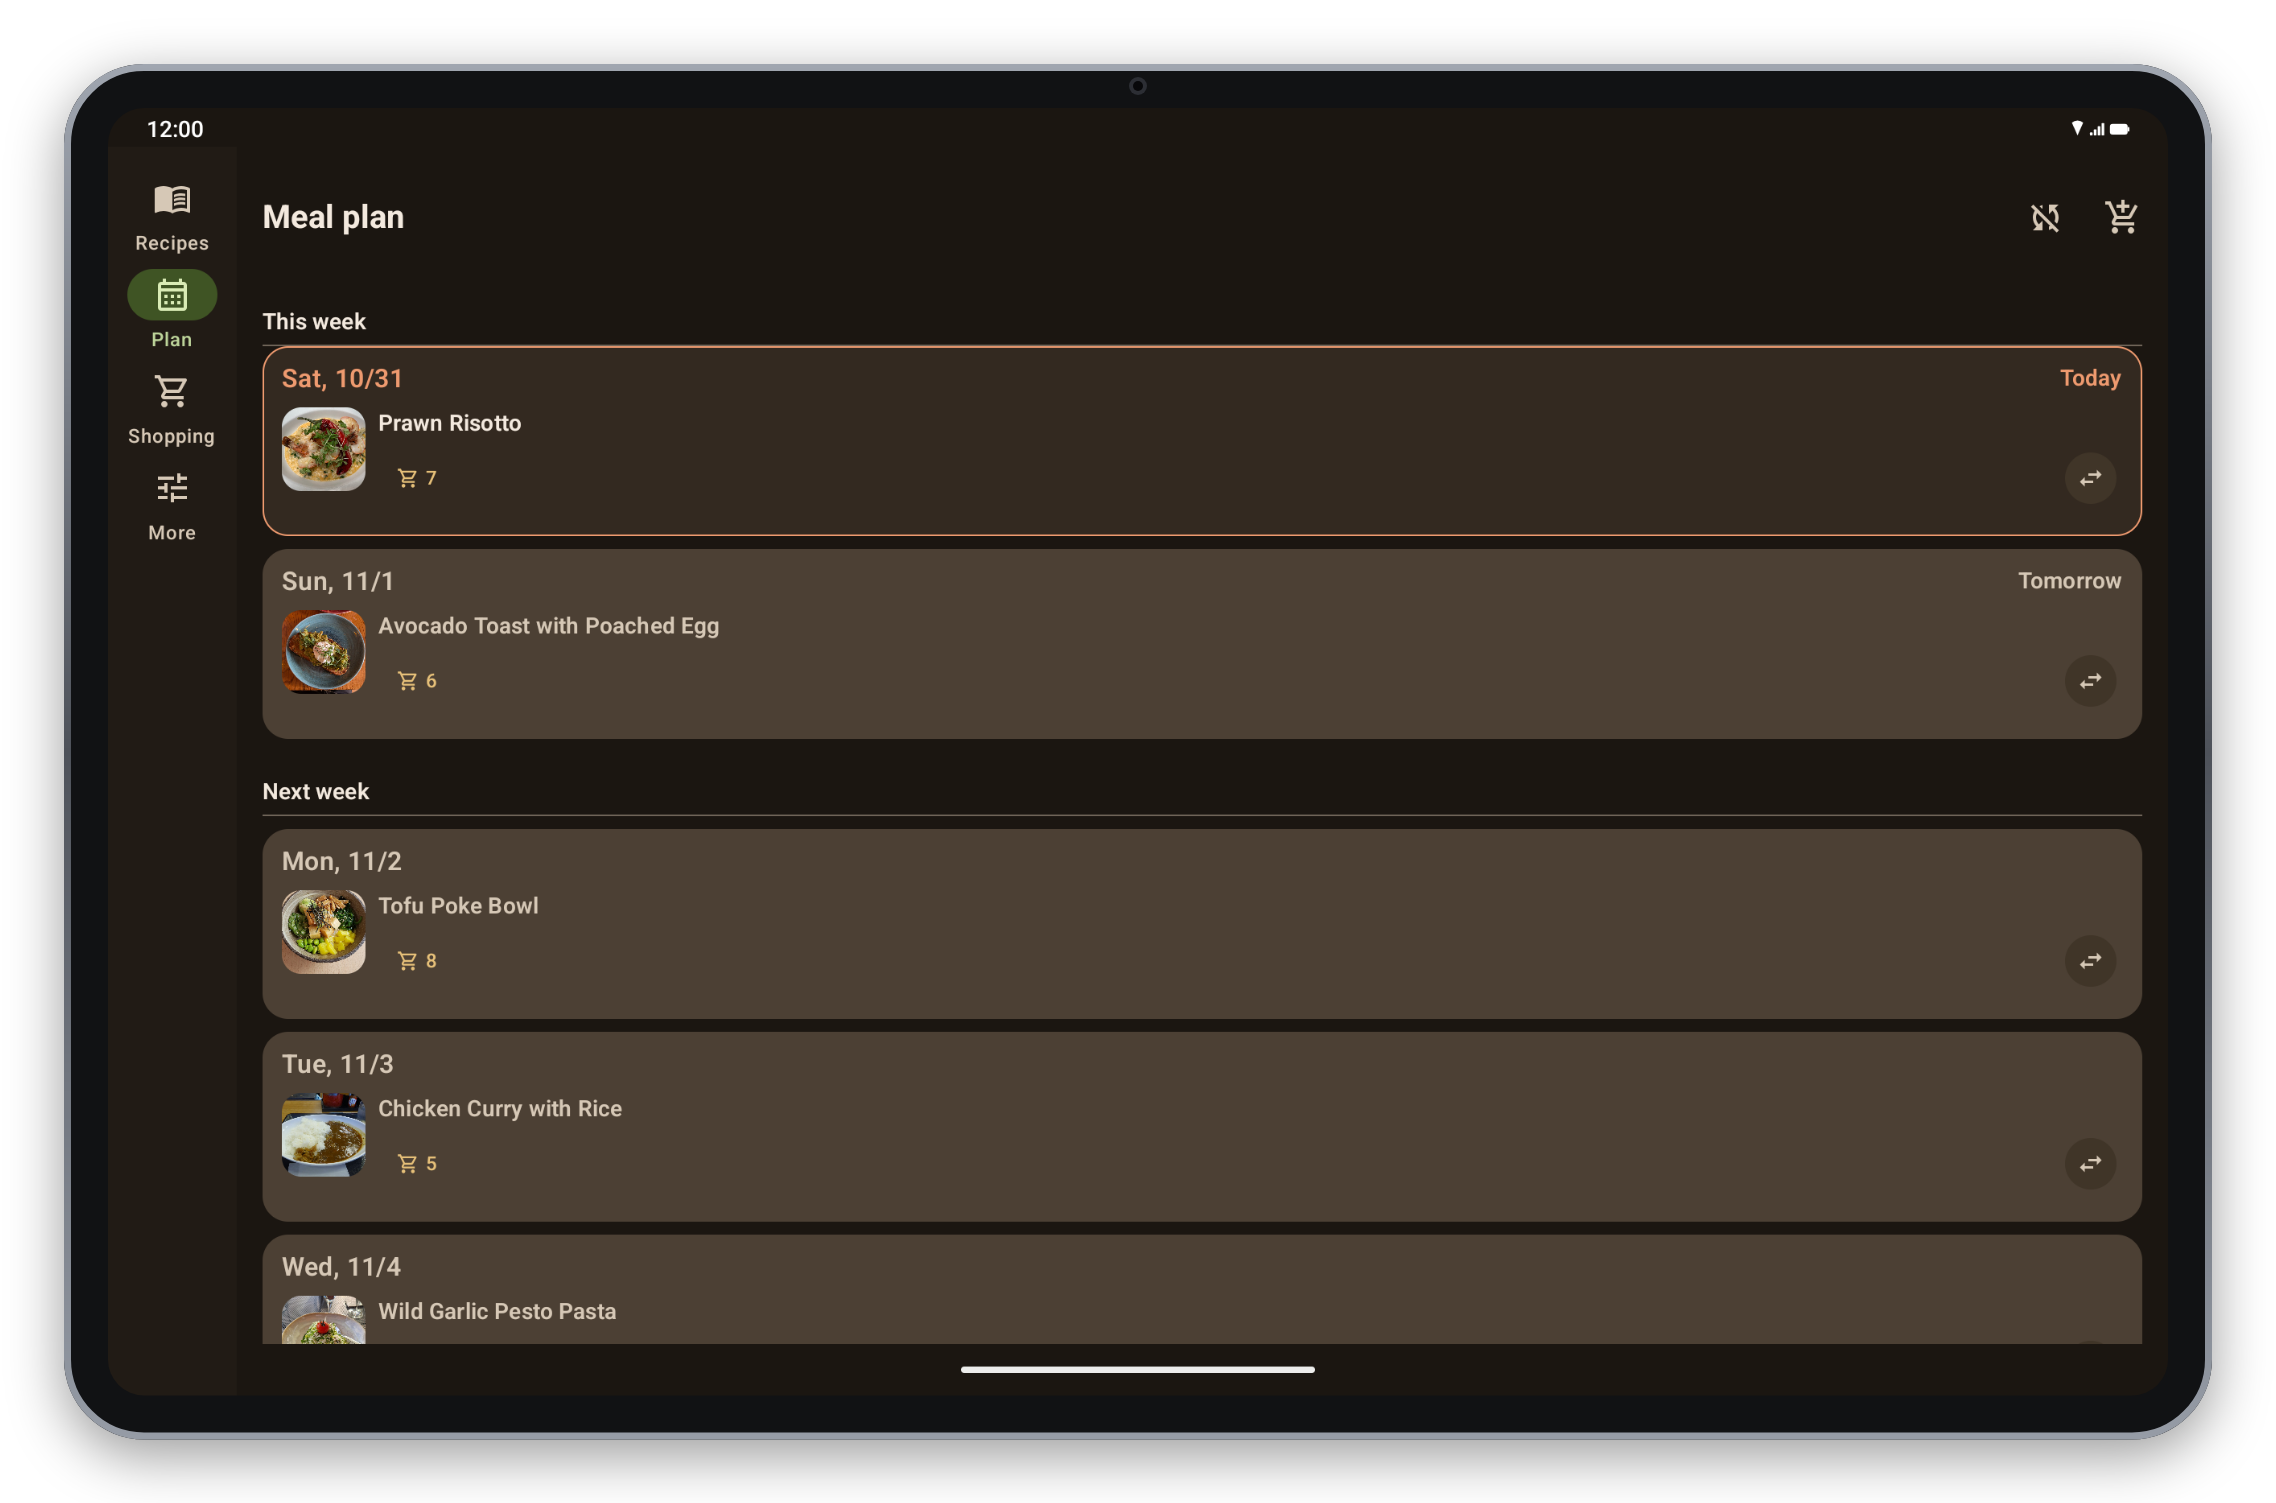
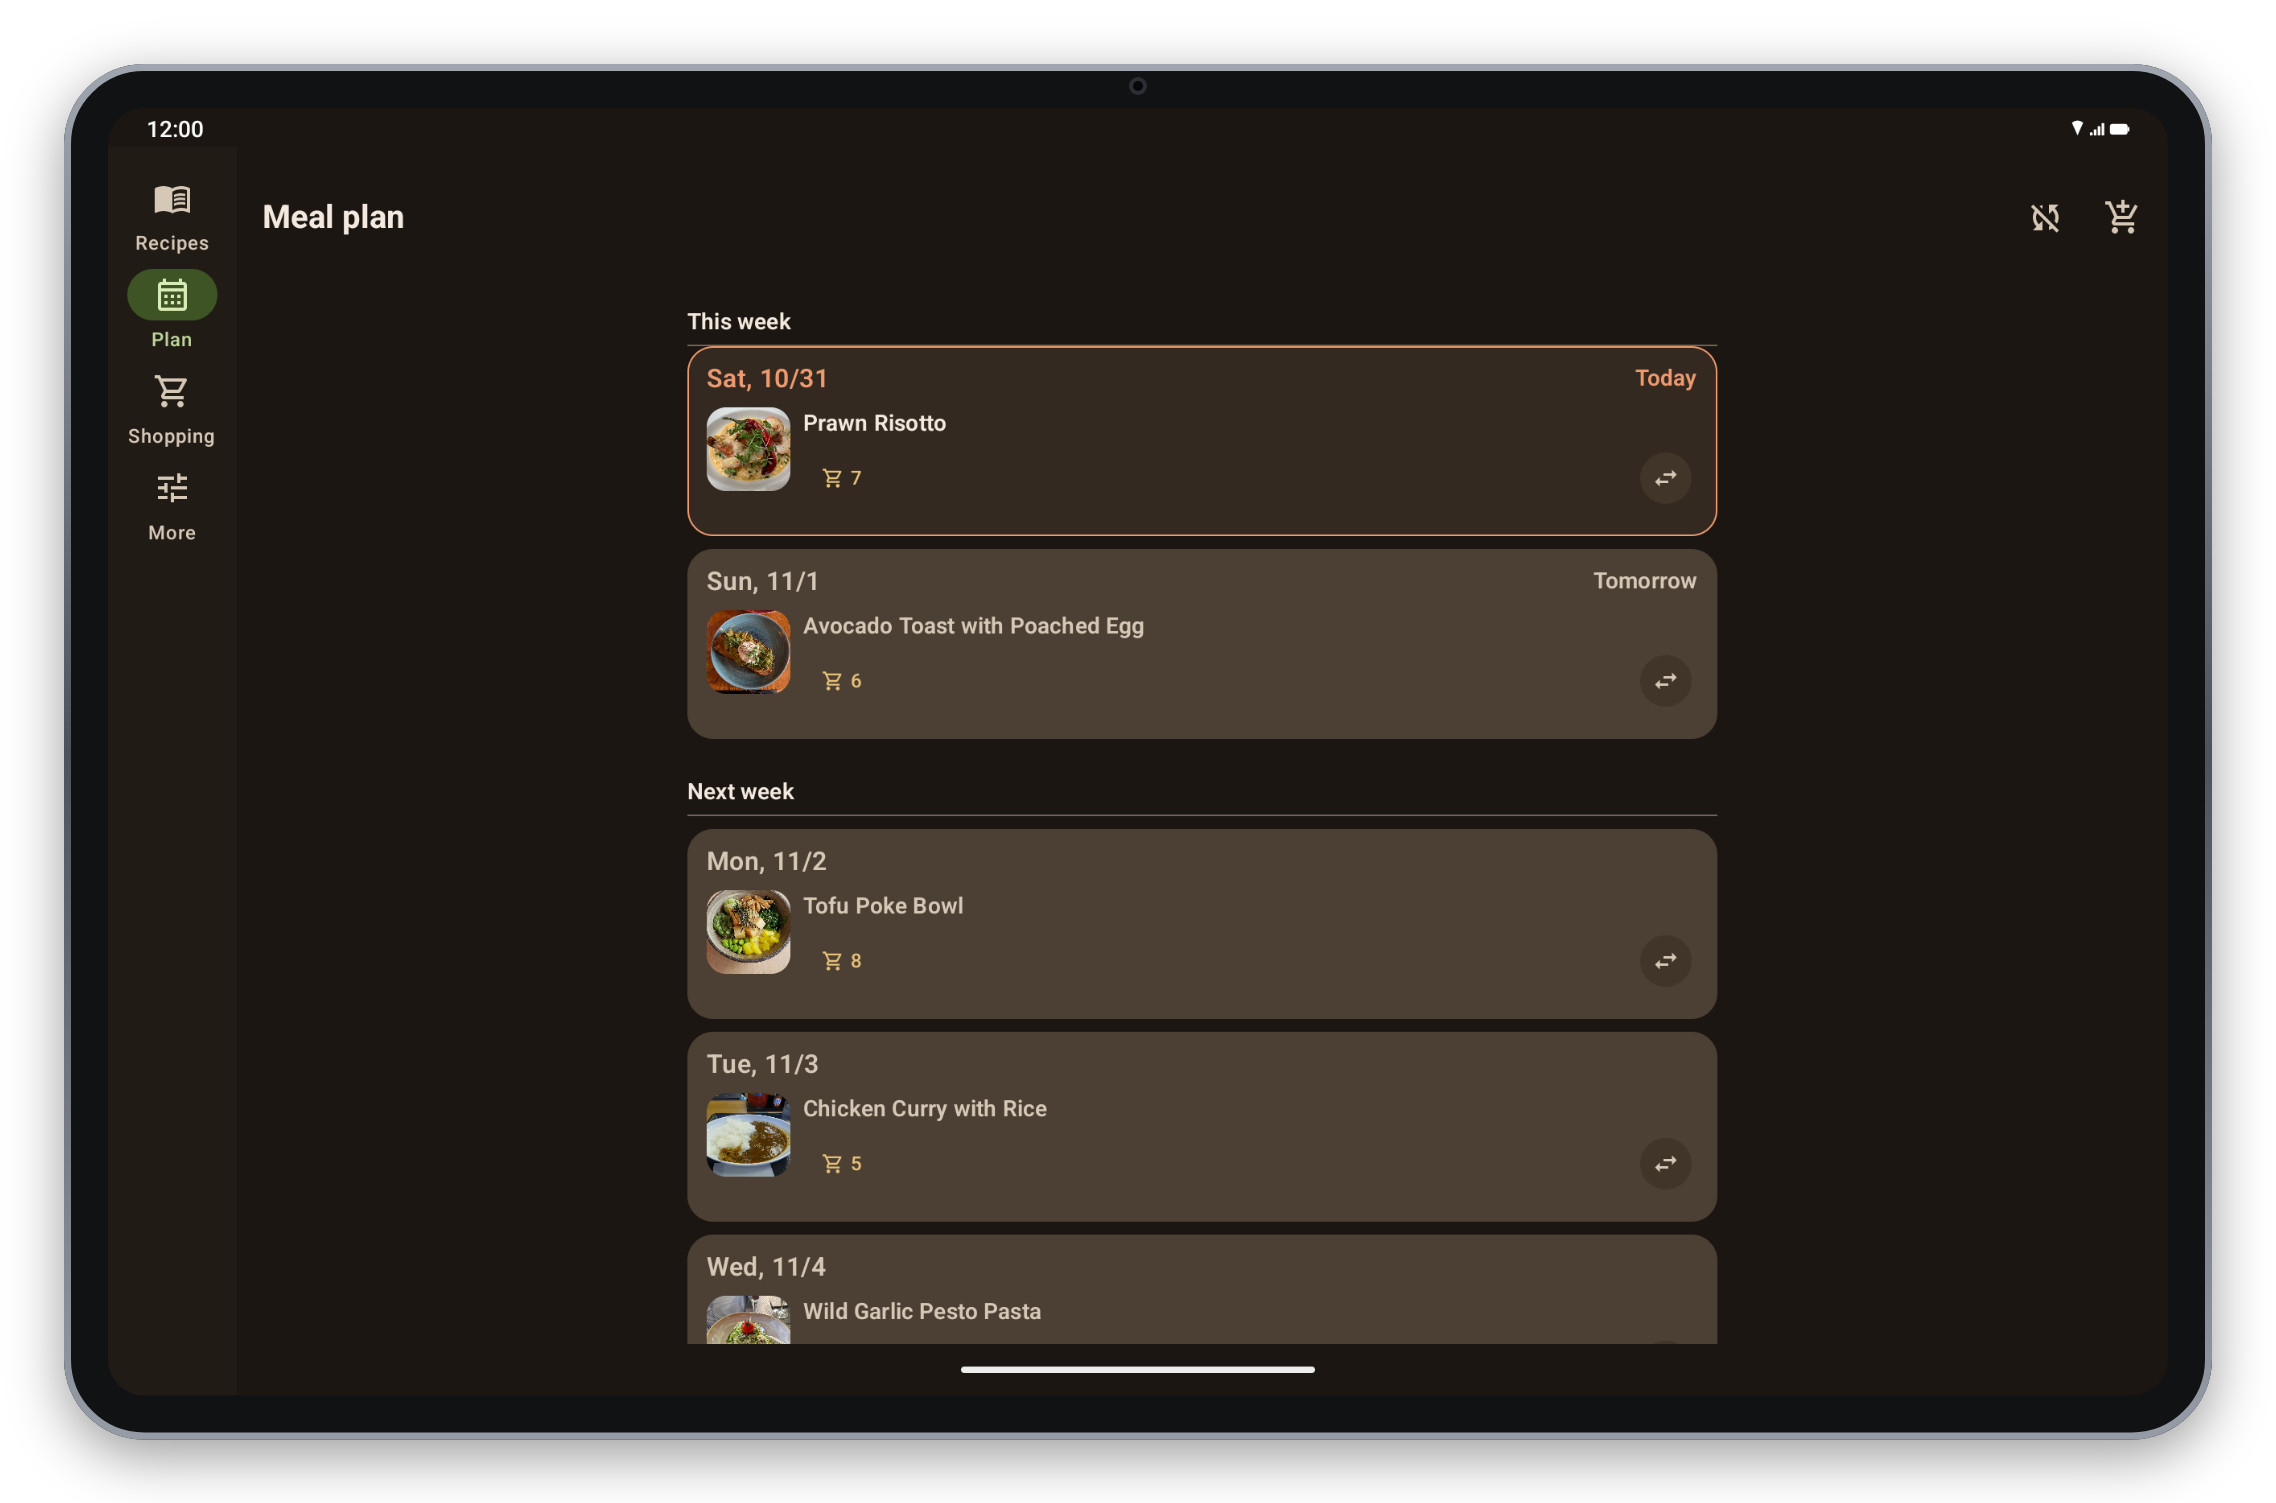
Center the meal planner on wide screens and bump to 0.4

diff --git a/app/src/main/java/com/food/opencook/ui/mealplan/MealPlanScreen.kt b/app/src/main/java/com/food/opencook/ui/mealplan/MealPlanScreen.kt
@@ -45,6 +45,7 @@ import androidx.compose.foundation.layout.heightIn
 import androidx.compose.foundation.layout.padding
 import androidx.compose.foundation.layout.size
 import androidx.compose.foundation.layout.width
+import androidx.compose.foundation.layout.widthIn
 import androidx.compose.foundation.lazy.LazyColumn
 import androidx.compose.foundation.lazy.items
 import androidx.compose.foundation.lazy.rememberLazyListState
@@ -280,9 +281,14 @@ fun MealPlanScreen(
             }
         },
     ) { innerPadding ->
-        Column(Modifier.fillMaxSize().padding(innerPadding).padding(horizontal = Spacing.screen).padding(top = Spacing.sm)) {
+        // Capped and centred like the shopping list, so a landscape tablet doesn't stretch
+        // the day cards across the whole screen.
+        Column(
+            Modifier.fillMaxSize().padding(innerPadding).padding(horizontal = Spacing.screen).padding(top = Spacing.sm),
+            horizontalAlignment = Alignment.CenterHorizontally,
+        ) {
             if (generating) {
-                LinearProgressIndicator(Modifier.fillMaxWidth().padding(bottom = Spacing.sm))
+                LinearProgressIndicator(Modifier.widthIn(max = 640.dp).fillMaxWidth().padding(bottom = Spacing.sm))
             }
 
             // Drag-to-reschedule. The platform drag-and-drop never auto-scrolls a list, so a
@@ -376,7 +382,7 @@ fun MealPlanScreen(
 
             LazyColumn(
                 state = listState,
-                modifier = Modifier.fillMaxSize()
+                modifier = Modifier.widthIn(max = 640.dp).fillMaxSize()
                     .onGloballyPositioned { listBounds.value = it.boundsInRoot() }
                     .dragAndDropTarget(
                         shouldStartDragAndDrop = { it.mimeTypes().contains(ClipDescription.MIMETYPE_TEXT_PLAIN) },
